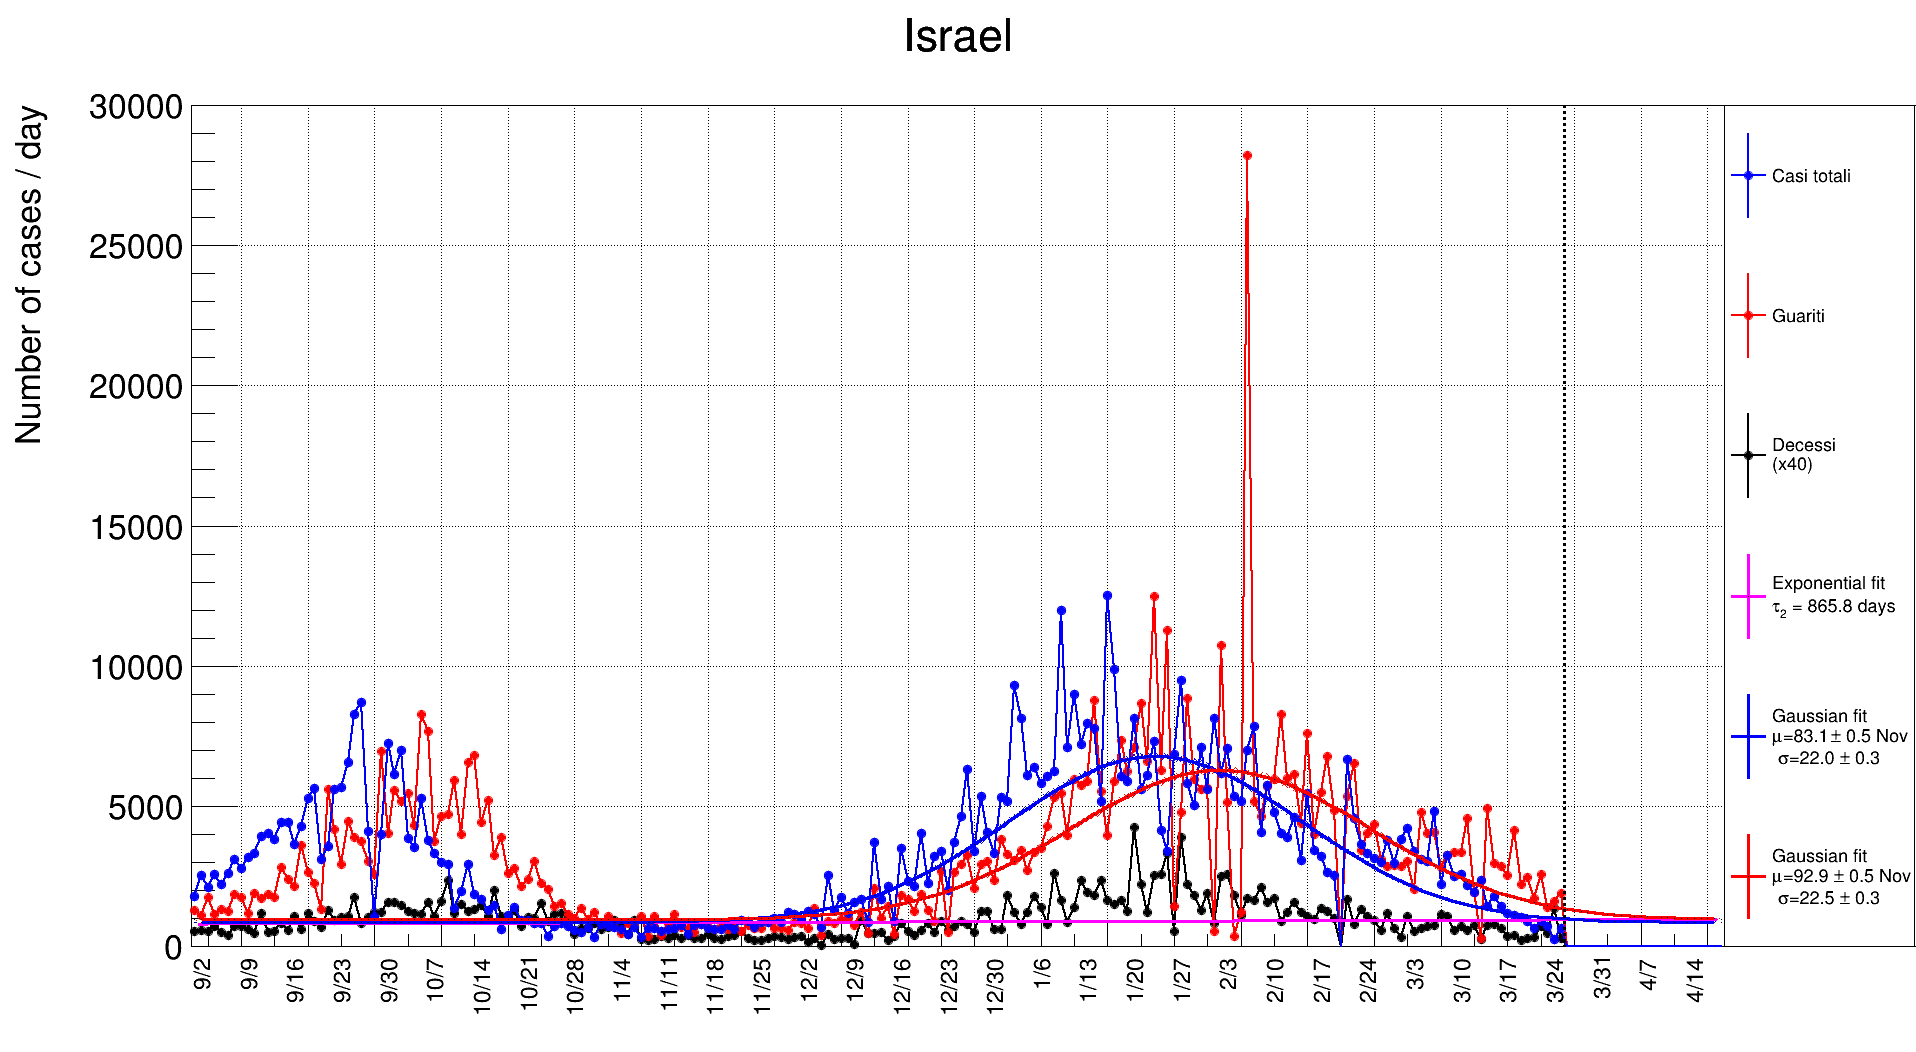
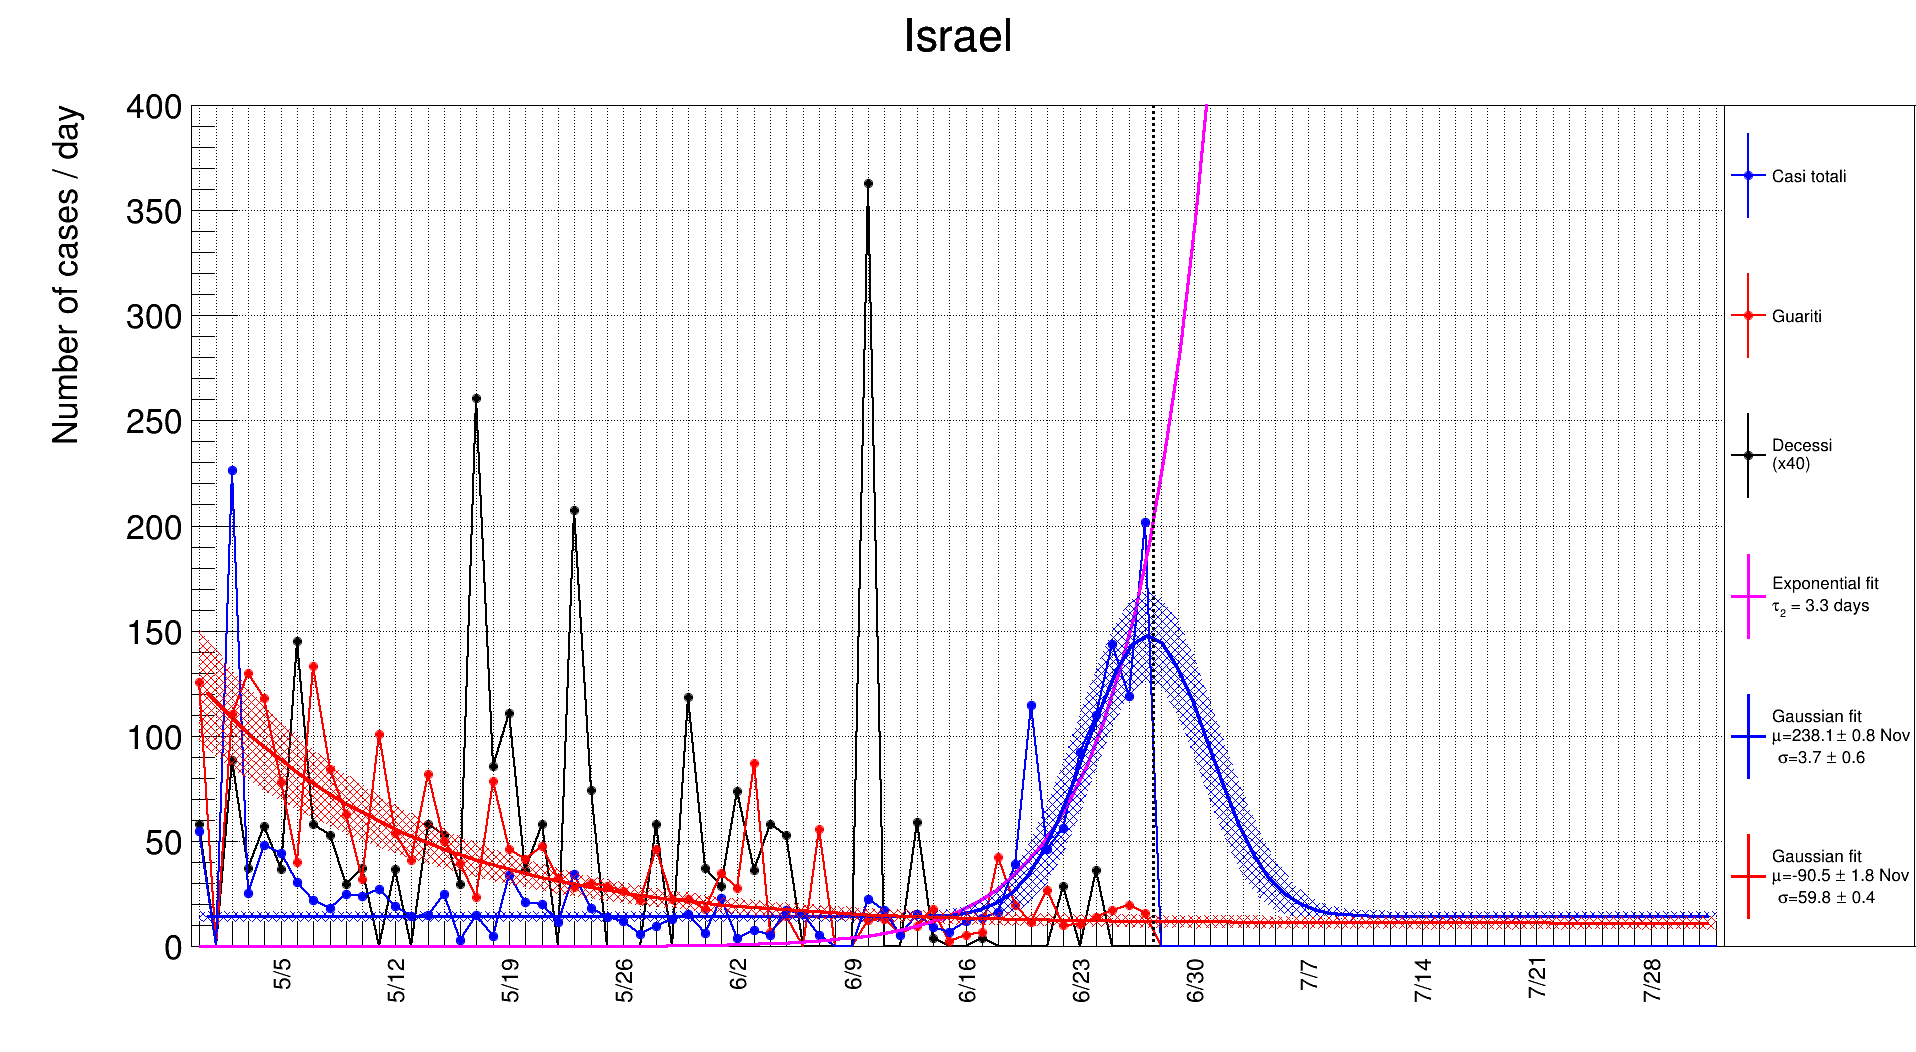
2021June28

diff --git a/script.py b/script.py
@@ -35,26 +35,32 @@ firstDate = 0
 #firstDate = dates.index("12/1/20")
 #firstDate = dates.index("12/30/20")
 #firstDate = dates.index("12/31/20")
-firstDate = dates.index("9/1/20")
-#firstDate = dates.index("1/18/21")
+#firstDate = dates.index("8/23/20")
+firstDate = dates.index("4/30/21")
+#firstDate = dates.index("1/1/21")
+#firstDate = dates.index("12/20/20")
 #firstDate = dates.index("4/1/20")
 #firstDate = 16
+#firstDate = dates.index("10/1/20")
 lastDate = lastDateData - 1
 #lastDate = dates.index("2/29/20")
 #lastDate = dates.index("3/1/20")
 #lastDate = 30
 #predictionsDate = dates.index("12/31/20")
-predictionsDate = dates.index("4/18/21")
+predictionsDate = dates.index("8/1/21")
 #predictionsDate = 95
 
-
-#firstDate = dates.index("3/1/20")
-#lastDate  = dates.index("5/1/20")
-#predictionsDate = dates.index("6/30/20")
+#firstDate = dates.index("4/30/20")
+#lastDate  = dates.index("8/1/20")
+#predictionsDate = dates.index("6/21/20")
 
 #firstDate = 10
 #lastDate = 35
 #predictionsDate = 35
+
+#firstDate = dates.index("10/1/20")
+#lastDate = dates.index("10/15/20")
+#predictionsDate = lastDate+1
 
 ################
 
